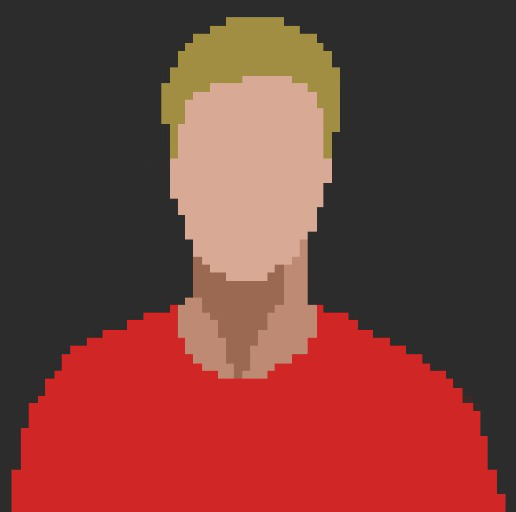
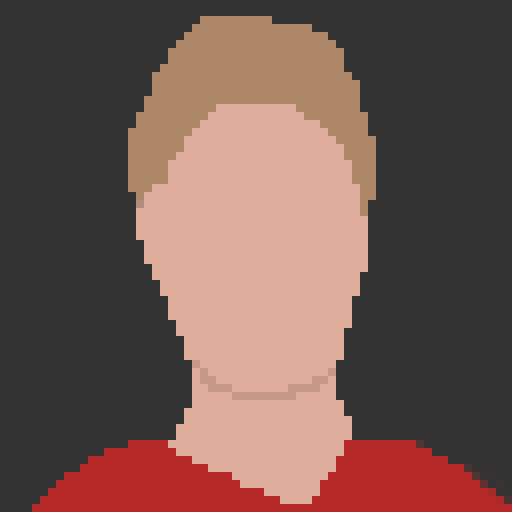
Fixing #539, #531, #431 and adding team members' pictures (#546)
* Update Branding Colors

* Adding Jose's image

* Changing order of the team

Ordered by year, then subteam, then alphabetical by last name

* Add Brody's photo

* Fix #539

* Adding/Changing Member's images

* Update team.html

* Update _config.yml

diff --git a/_pages/team.html b/_pages/team.html
@@ -70,7 +70,7 @@ description: Here are all of the people on the team for this year
             <p>Nate is a second year programmer.</p>
         </div>
         <div>
-            <img src="/images/team/placeholder.png">
+            <img src="/images/team/joe-donovan.png">
             <p class="label">🖥 Programmer 🖥 </p>
             <h5>Joe Donovan '23</h5>
             <p>Joe Donovan is a fourth year programmer.</p>
@@ -220,7 +220,7 @@ description: Here are all of the people on the team for this year
             <p>Sophie is a first year programmer.</p>
         </div>
         <div>
-            <img src="/images/team/placeholder.png">
+            <img src="/images/team/brody-wagner.png">
             <p class="label">🔧 Mechanic 🔧</p>
             <h5>Brody Wagner '26</h5>
             <p>Brody is a first year mechanic.</p>

diff --git a/_pages/sponsorship.html b/_pages/sponsorship.html
@@ -16,5 +16,5 @@ description: Want to sponsor us? Click here to learn more!
     <p>Meridian High School Attn. Edna Baldo
         <br>121 Mustang Alley
         <br>Falls Church, VA 22043</p>
-    <img src="/images/robots/2018/ROBTHREE.JPG" alt="Our 2018 robot as of now.">
+    <img src="/images/robots/2022/2022-profile.jpg" alt= "This is our 2022 robot">
 </main>
